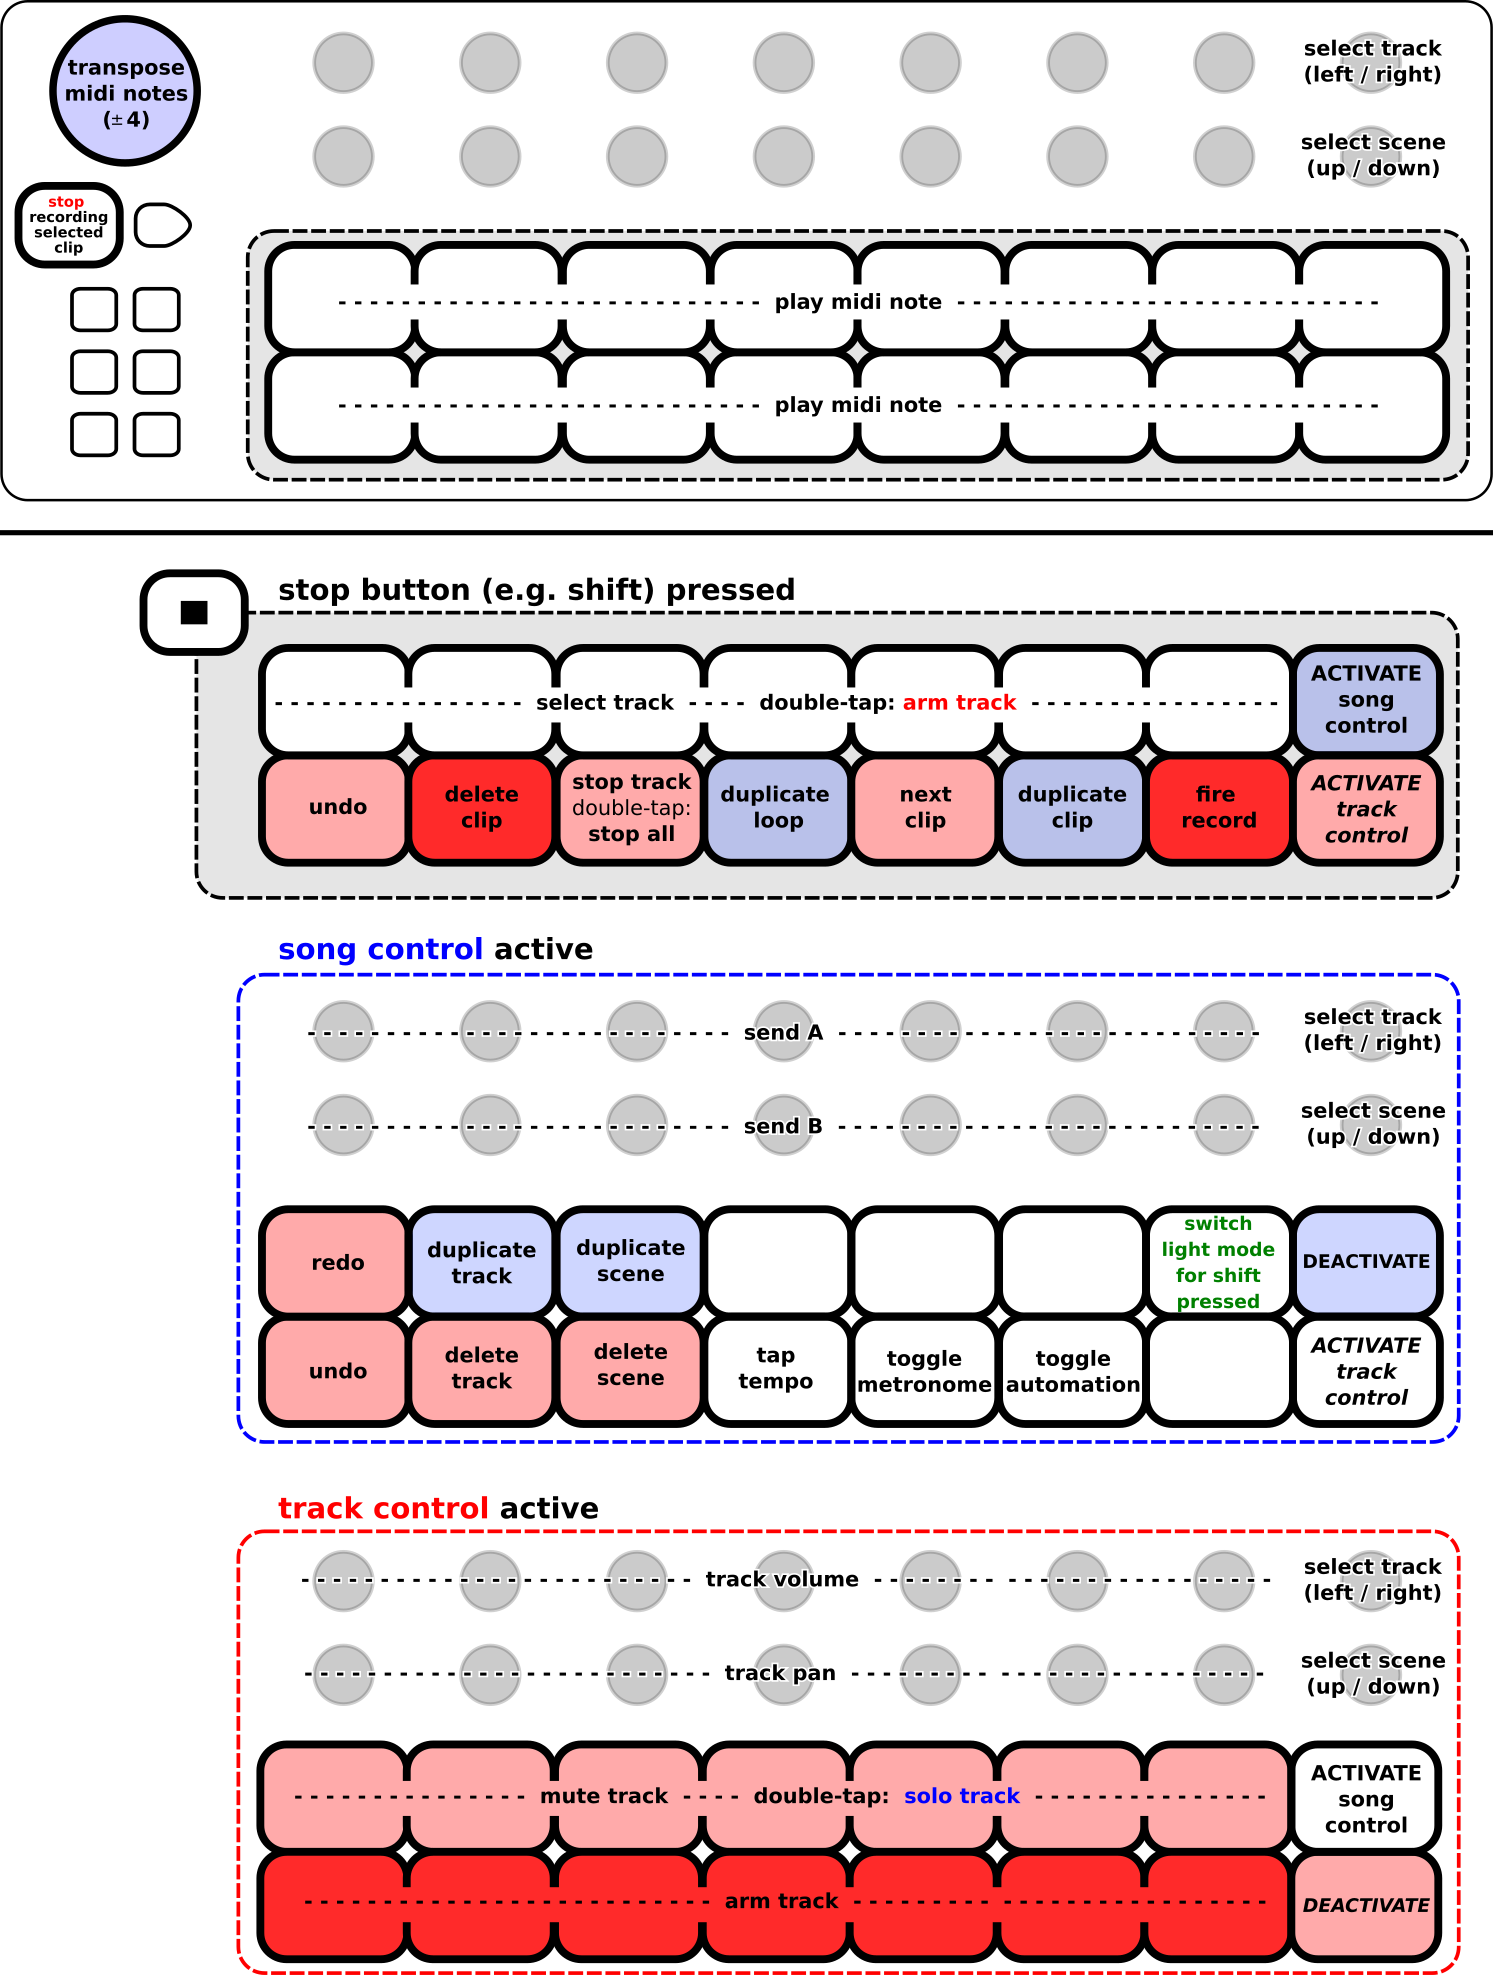
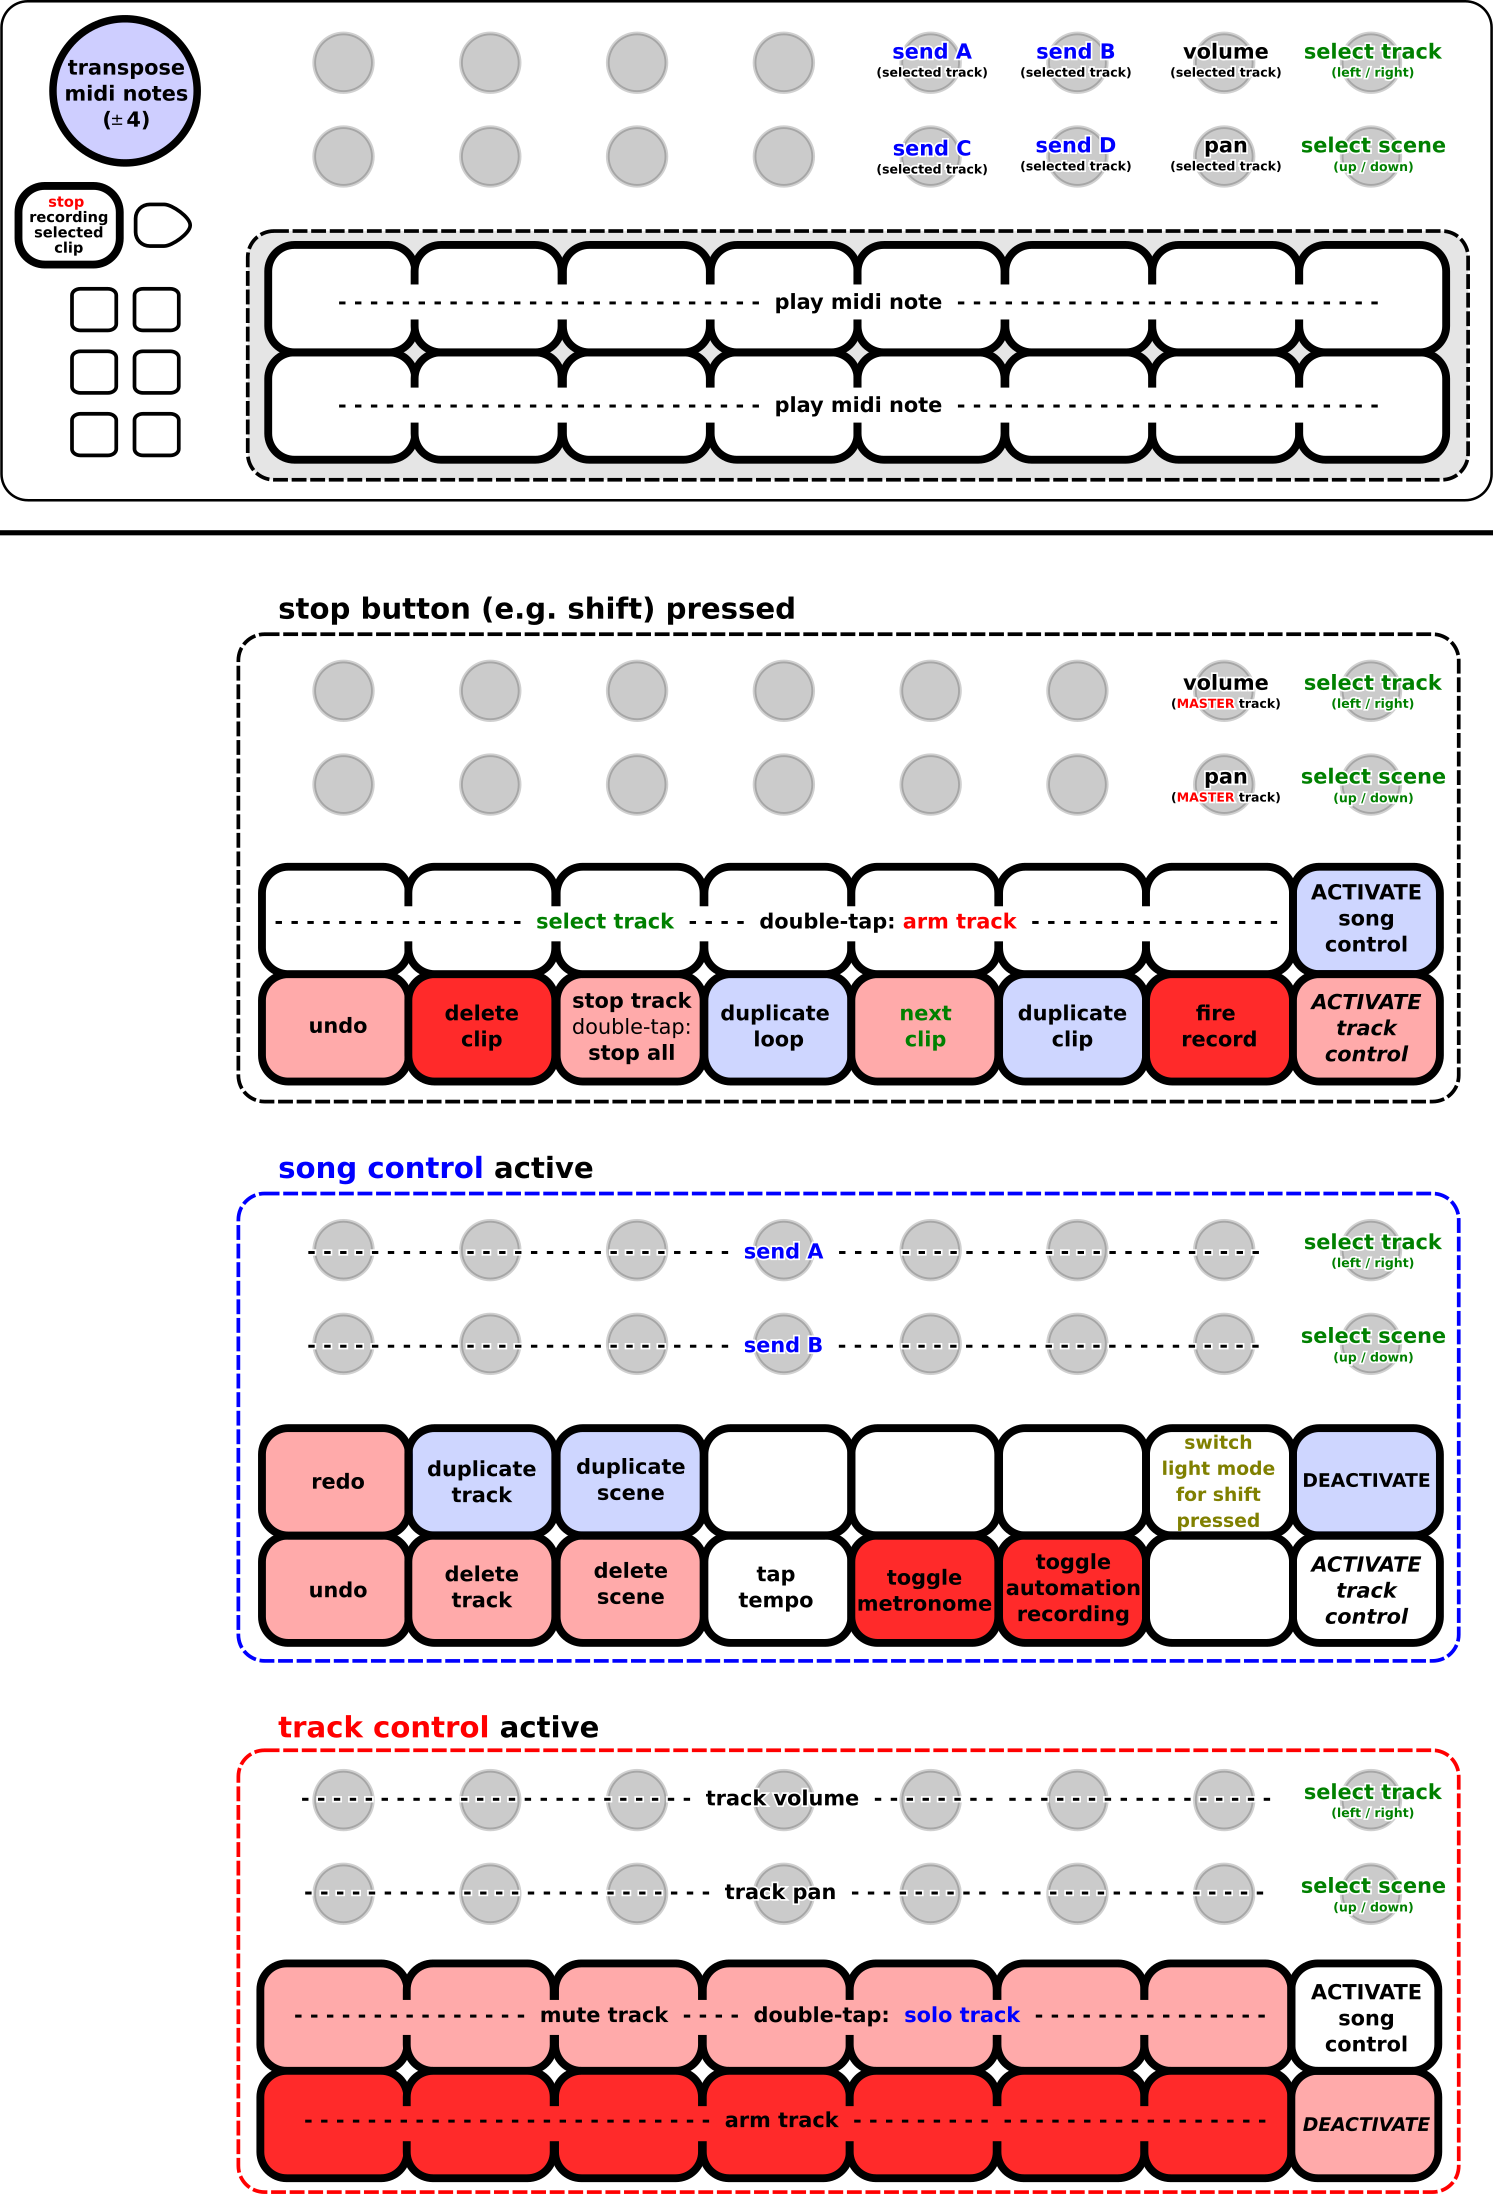
add encoder controls if shift is not pressed - add master-track pan/volume control on shift pressed

diff --git a/ControlComponent.py b/ControlComponent.py
@@ -677,6 +677,8 @@ class ControlComponent(BaseComponent):
             self._track_volume(value, trackid)
         elif self._control_layer:
             self._track_send_x(value, trackid, 0)
+        else:
+            self._track_send_x(value, -1, 0)
 
     def _6_encoder_listener(self, value):
         trackid = 5
@@ -684,13 +686,19 @@ class ControlComponent(BaseComponent):
             self._track_volume(value, trackid)
         elif self._control_layer:
             self._track_send_x(value, trackid, 0)
+        else:
+            self._track_send_x(value, -1, 1)
 
     def _7_encoder_listener(self, value):
         trackid = 6
         if self._shift_fixed:
             self._track_volume(value, trackid)
         elif self._control_layer:
-            self._track_send_x(value, trackid, 0)
+            self._track_send_x(value, trackid, 1)
+        elif self._shift_pressed:
+            self._track_volume(value, -2)
+        else:
+            self._track_volume(value, -1)
 
     # def _8_encoder_listener(self, value):
     #     pass
@@ -730,7 +738,9 @@ class ControlComponent(BaseComponent):
         if self._shift_fixed:
             self._track_pan(value, trackid)
         elif self._control_layer:
-            self._track_send_x(value, trackid, 1)
+            self._track_send_x(value, trackid, 2)
+        else:
+            self._track_send_x(value, -1, 2)
 
     def _14_encoder_listener(self, value):
         trackid = 5
@@ -738,6 +748,8 @@ class ControlComponent(BaseComponent):
             self._track_pan(value, trackid)
         elif self._control_layer:
             self._track_send_x(value, trackid, 1)
+        else:
+            self._track_send_x(value, -1, 3)
 
     def _15_encoder_listener(self, value):
         trackid = 6
@@ -745,13 +757,13 @@ class ControlComponent(BaseComponent):
             self._track_pan(value, trackid)
         elif self._control_layer:
             self._track_send_x(value, trackid, 1)
-
+        elif self._shift_pressed:
+            self._track_pan(value, -2)
+        else:
+            self._track_pan(value, -1)
     # def _16_encoder_listener(self, value):
     #     pass
     #########################################################
-
-
-
 
 
 
@@ -759,8 +771,11 @@ class ControlComponent(BaseComponent):
         accessname = '__last_access_' + str(track_id) + '_' + str(send_id)
         last_access = abs(time.clock() - getattr(self, accessname, 0))
 
+        if track_id == -1:
+            track = self._parent.song().view.selected_track
+        else:
+            track = self.use_tracks[track_id]
 
-        track = self.use_tracks[track_id]
         if track is not None:
             sends = track.mixer_device.sends
 
@@ -781,7 +796,13 @@ class ControlComponent(BaseComponent):
 
 
     def _track_volume(self, value, track_id=0):
-        track = self.use_tracks[track_id]
+        if track_id == -1:
+            track = self._parent.song().view.selected_track
+        elif track_id == -2:
+            track = self._parent.song().master_track
+        else:
+            track = self.use_tracks[track_id]
+
         if track is not None:
             prev_value = track.mixer_device.volume.value
             if value < 65:
@@ -791,7 +812,13 @@ class ControlComponent(BaseComponent):
 
 
     def _track_pan(self, value, track_id=0):
-        track = self.use_tracks[track_id]
+        if track_id == -1:
+            track = self._parent.song().view.selected_track
+        elif track_id == -2:
+            track = self._parent.song().master_track
+        else:
+            track = self.use_tracks[track_id]
+
         if track is not None:
             prev_value = track.mixer_device.panning.value
             self._parent.show_message(str(prev_value))
